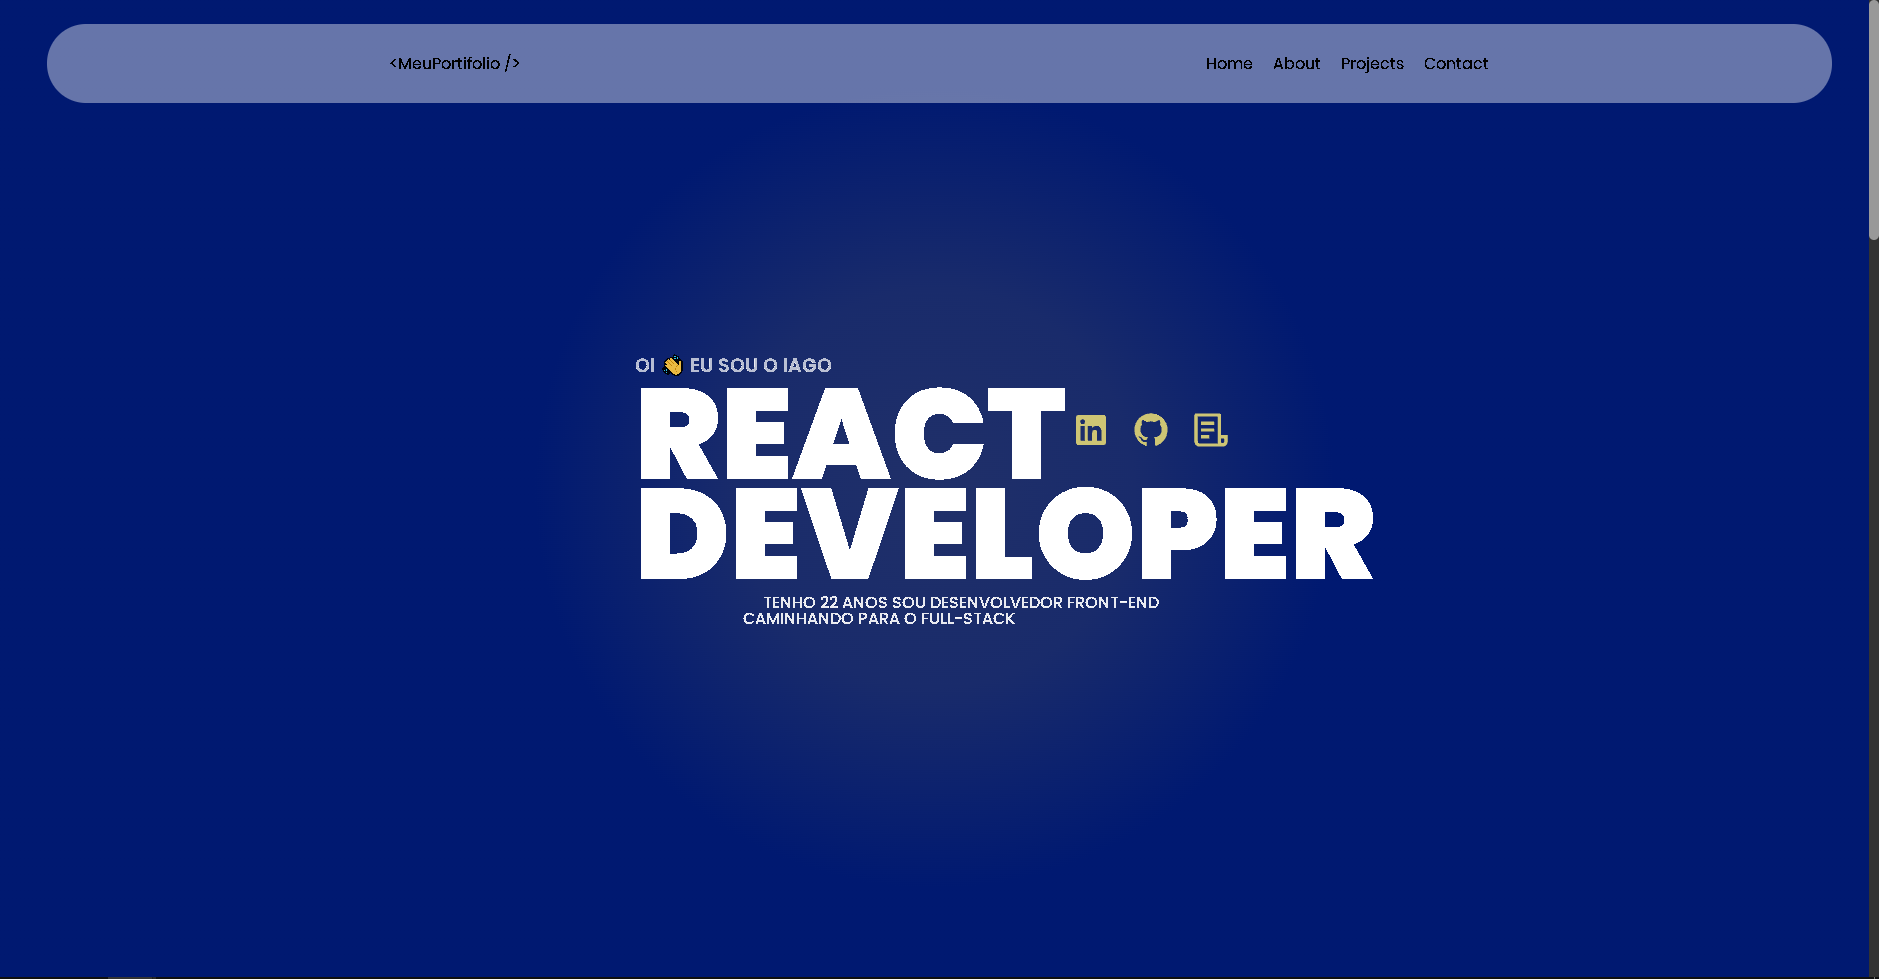
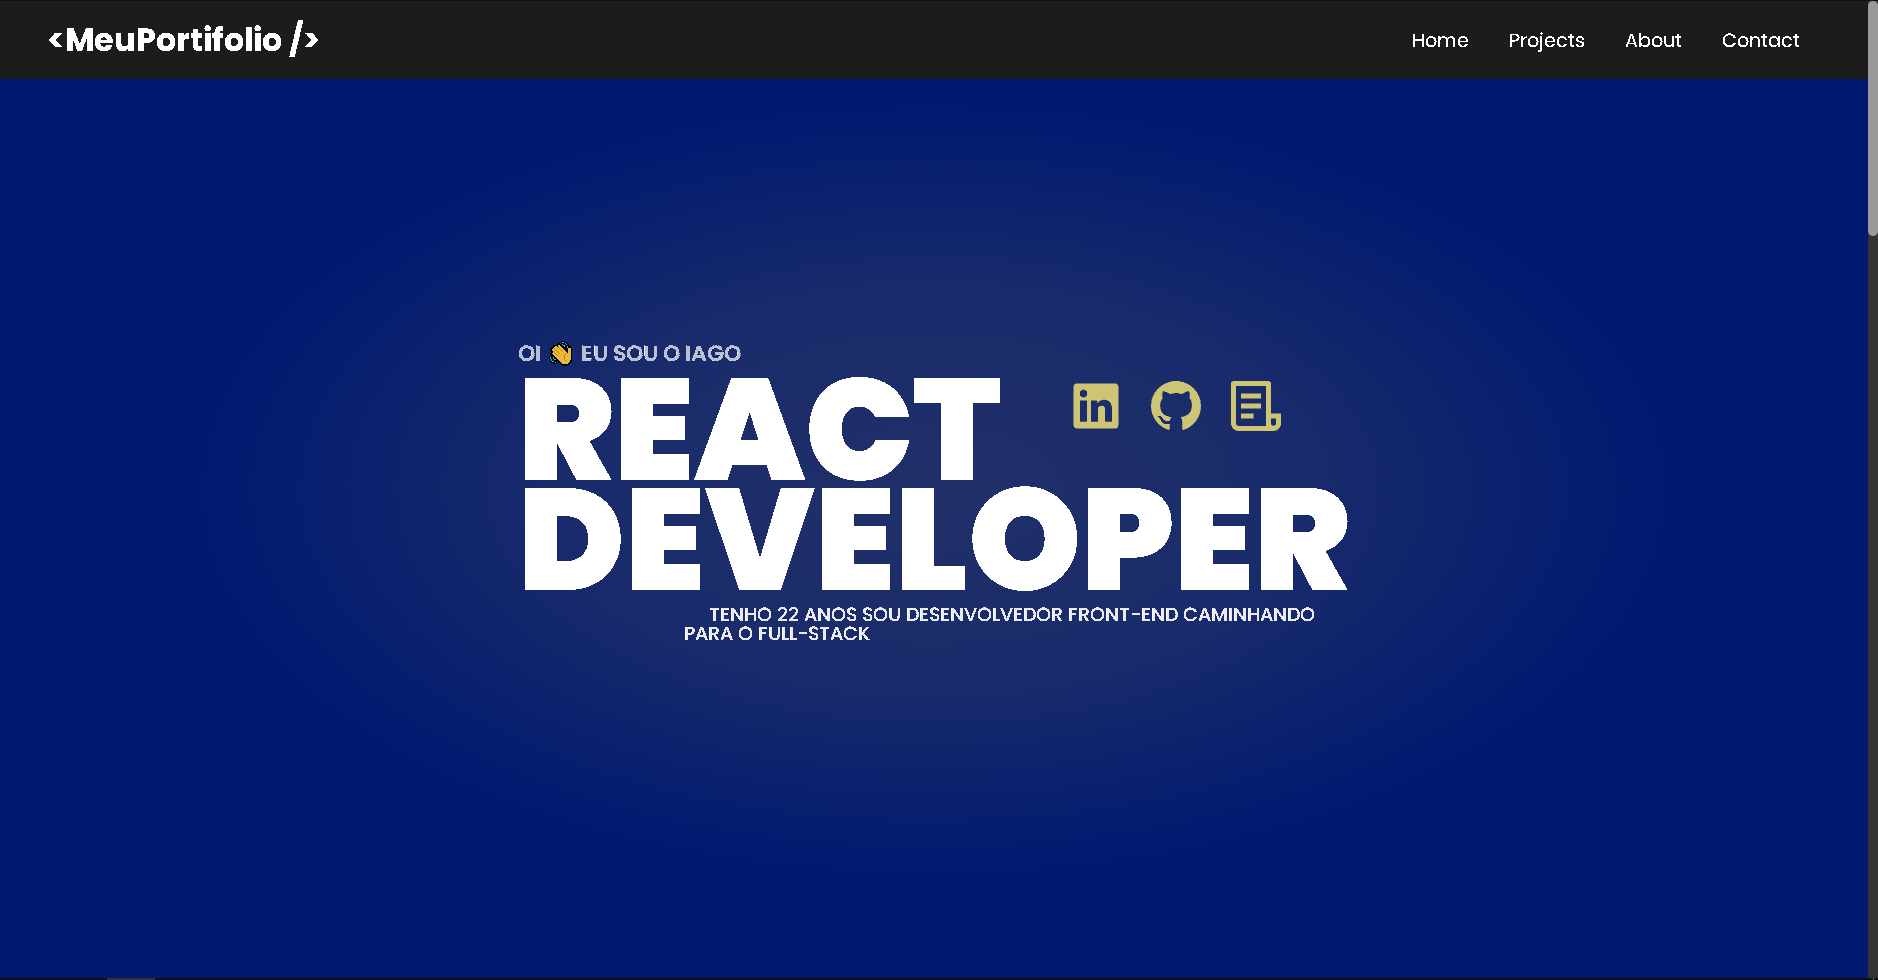
Atualizando o arquivo README.md

Changed region(s): [[0.0, 0.0, 1.0, 0.1226], [0.278, 0.3371, 0.7412, 0.6742]]

diff --git a/README.md b/README.md
@@ -6,10 +6,10 @@
 ![Bitbucket open issues](https://img.shields.io/bitbucket/issues/iagoslopes/portifolio?style=for-the-badge&labelColor=af552e&color=f8efd4)
 ![Bitbucket open pull requests](https://img.shields.io/bitbucket/pr-raw/iagoslopes/portifolio?style=for-the-badge&labelColor=af552e&color=f8efd4)
 
->Primeira ideia do portifólio:
+>Primeira ideia do portifólio pelo [figma](https://www.figma.com/community/file/1310574702820657348/portifolio-iago):
 <img src="imagem.png" alt="Exemplo imagem">
 
->Tela home do portifólio:
+>Tela home atual do portifólio:
 <img src="imagem2.PNG" alt="Exemplo imagem">
 
 > Esse projeto consiste em mostrar as minhas habilidades e projetos dentro do meu portifolio
